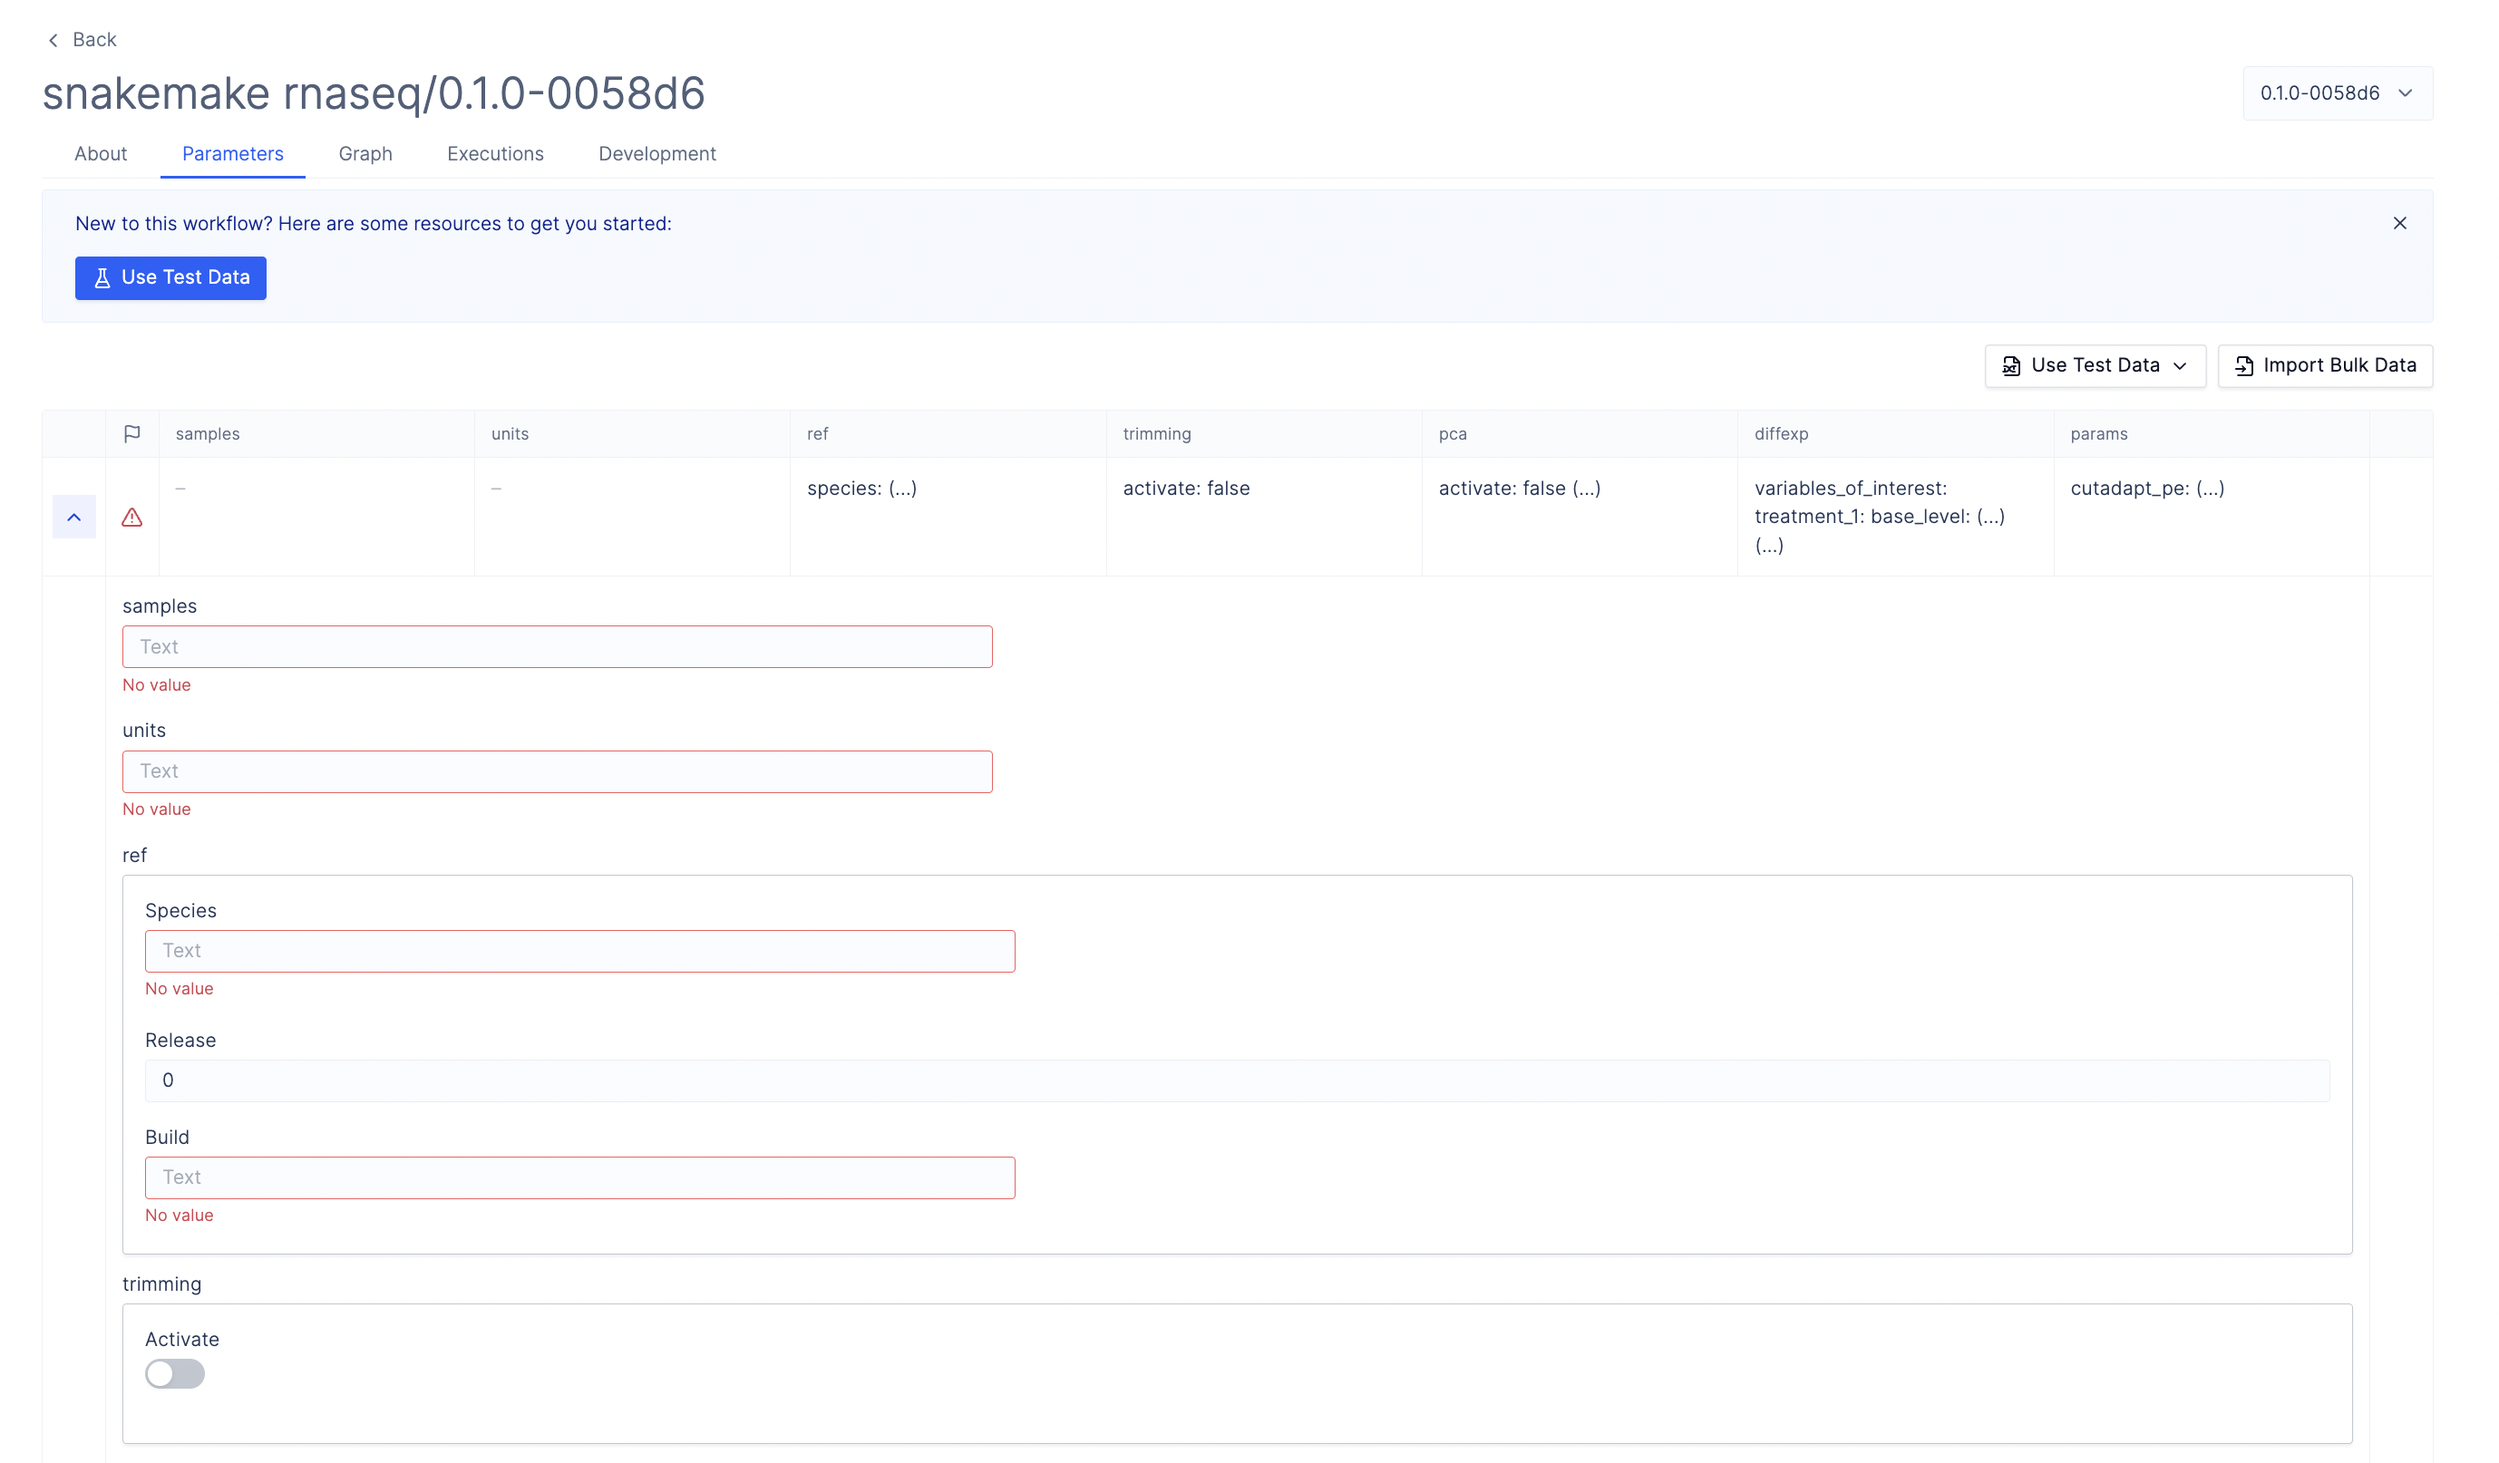
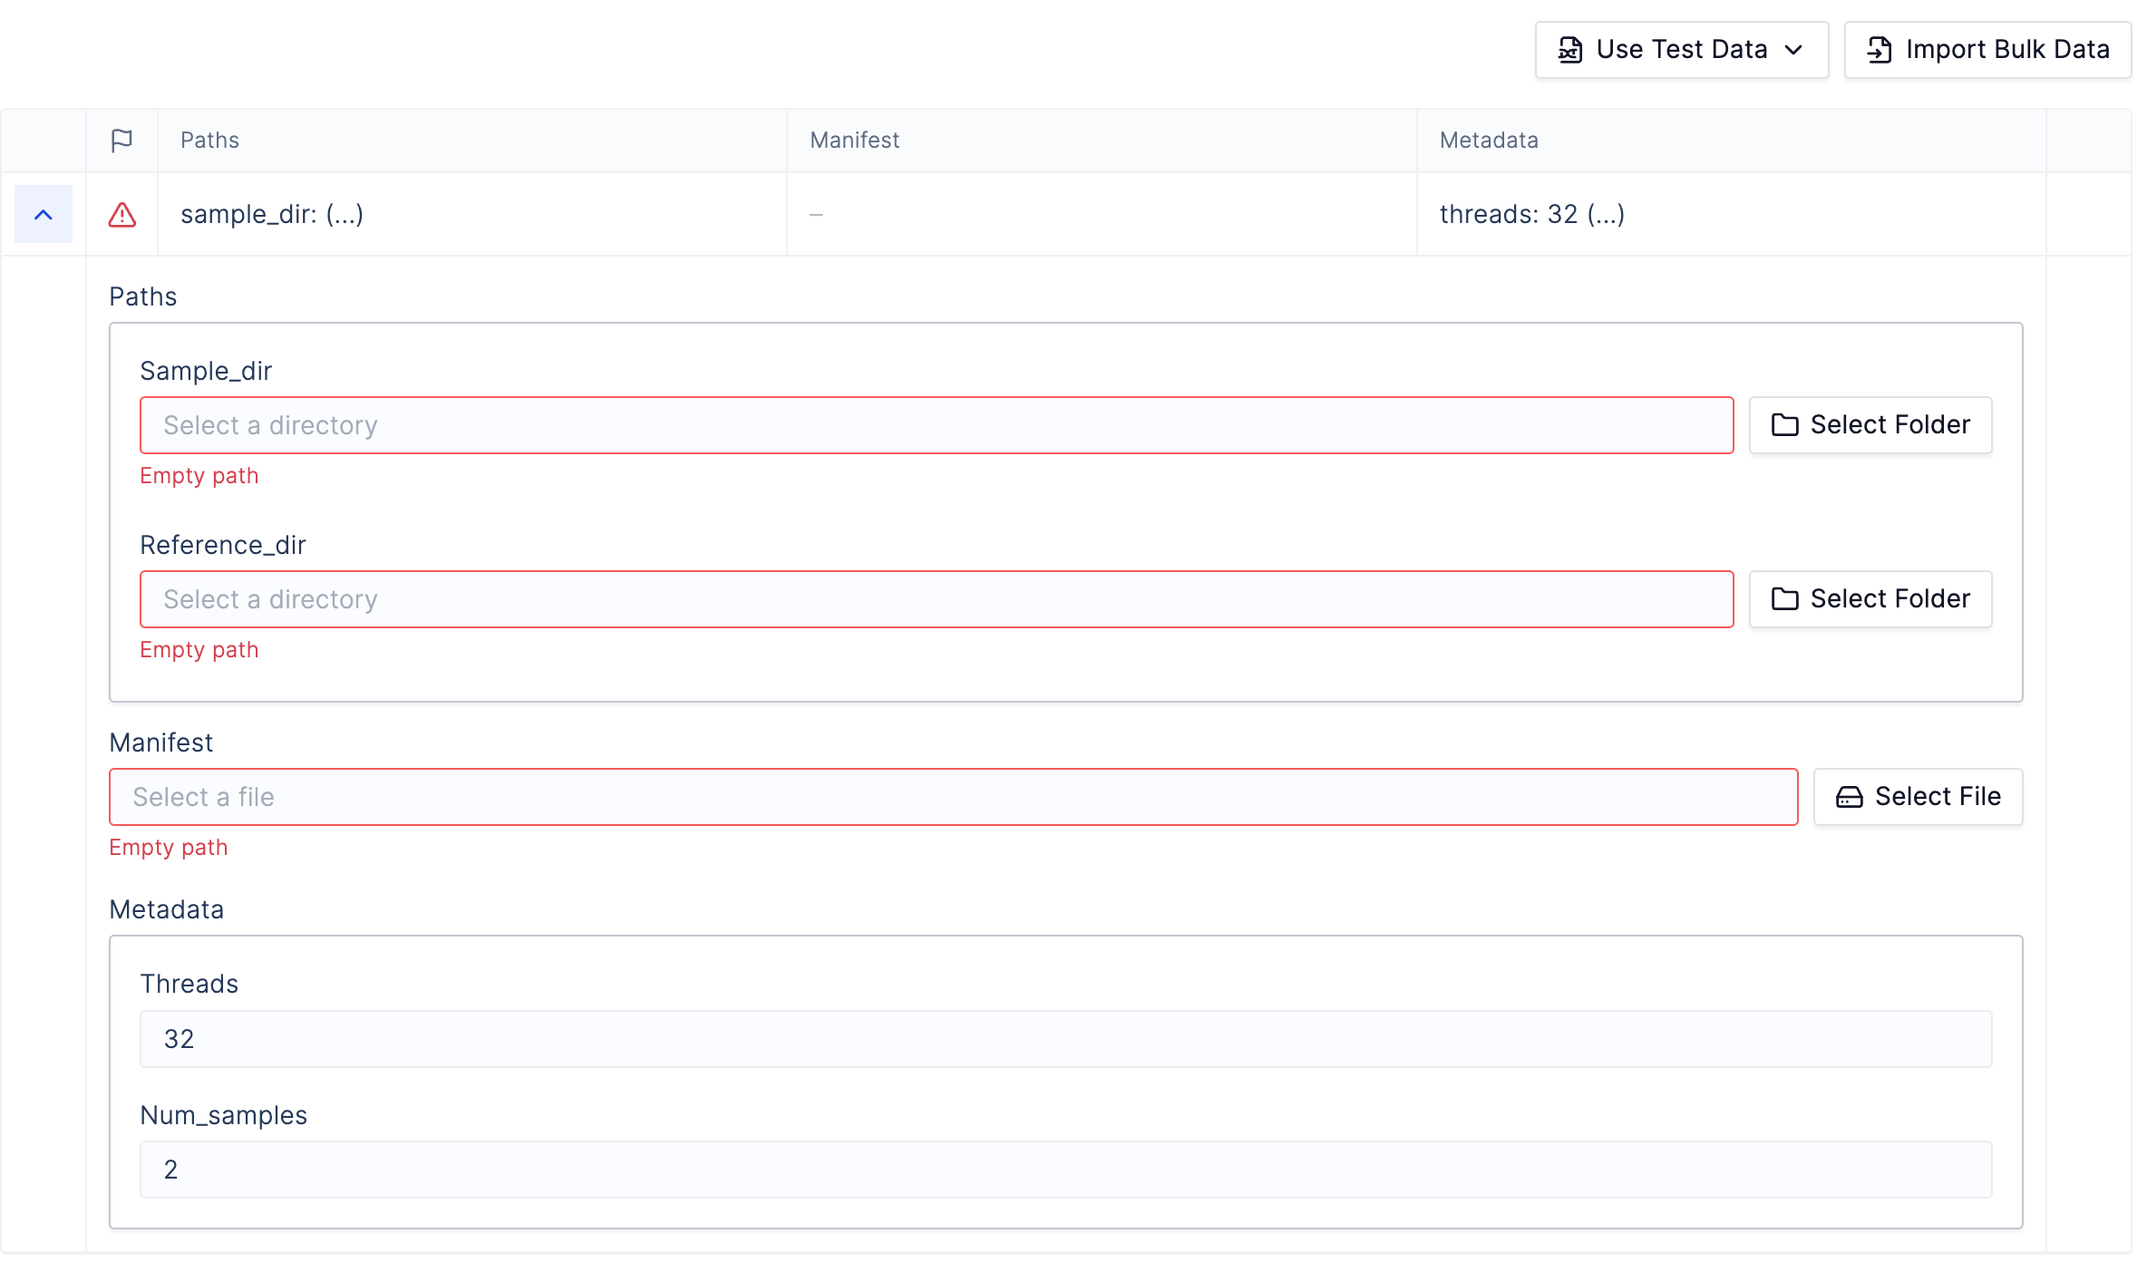
udpate snakemake metadata docs

diff --git a/latch_cli/snakemake/config/utils.py b/latch_cli/snakemake/config/utils.py
@@ -152,7 +152,8 @@ def parse_value(t: Type, v: JSONValue):
 
         sub_type = get_args(t)[0]
         res = [parse_value(sub_type, x) for x in v]
-        return [x[0] for x in res], [x[1] for x in res]
+        val, defaults = [x[0] for x in res], [x[1] for x in res]
+        return val, None if any([x is None for x in defaults]) else defaults
 
     assert isinstance(v, dict), v
     assert is_dataclass(t), t
@@ -161,14 +162,18 @@ def parse_value(t: Type, v: JSONValue):
     defaults = {}
     fs = {identifier_from_str(f.name): f for f in fields(t)}
 
+    ignore_default = False
     for k, x in v.items():
         sanitized = identifier_from_str(k)
         assert sanitized in fs, sanitized
         val, default = parse_value(fs[sanitized].type, x)
         ret[sanitized] = val
+        # flytekit fails if any fields in default object are None
+        if default is None:
+            ignore_default = True
         defaults[sanitized] = default
 
-    return t(**ret), t(**defaults)
+    return t(**ret), t(**defaults) if not ignore_default else None
 
 
 def is_primitive_type(

diff --git a/docs/source/snakemake/metadata.md b/docs/source/snakemake/metadata.md
@@ -1,211 +1,123 @@
 # Metadata
 
-The Snakemake framework was designed to allow developers to both define and execute their workflows. This often means that the workflow parameters are sometimes ill-defined and scattered throughout the project as configuration values, static values in the `Snakefile` or command line flags.
+The Snakemake framework was designed to allow developers to both define and execute their workflows. This often means that the workflow parameters are sometimes ill-defined and scattered throughout the project as configuration values, static values in the `Snakefile`, or command line flags.
 
-To construct a graphical interface from a snakemake workflow, the file parameters need to be explicitly identified and defined so that they can be presented to scientists to be filled out through a web application.
+To construct a graphical interface from a Snakemake workflow, the file parameters need to be explicitly identified and defined so that they can be presented to scientists through a web application.
 
-The `latch_metadata.py` file holds these parameter definitions, along with any styling or cosmetic modifications the developer wishes to make to each parameter.
+The `latch_metadata` folder holds these parameter definitions.
 
-To generate a `latch_metadata.py` file, type:
+To generate Latch metadata from a config file, type:
 
 ```console
 latch generate-metadata <path_to_config.yaml>
 ```
 
-The command automatically parses the existing `config.yaml` file in the Snakemake repository, and creates a Python parameters file.
+The command automatically parses the existing `config.yaml` file in the Snakemake repository and creates a Python parameters file. After running the command, inspect the generated files to verify that the parameter types and file paths are what the workflow expects.
 
-#### Examples
+## Example
 
-Below is an example `config.yaml` file from the [rna-seq-star-deseq2 workflow](https://github.com/snakemake-workflows/rna-seq-star-deseq2) from Snakemake workflow catalog.
+Below is an example `config.yaml` file and corresponding latch metadata.
 
 `config.yaml`
 
 ```yaml
-# path or URL to sample sheet (TSV format, columns: sample, condition, ...)
-samples: config/samples.tsv
-# path or URL to sequencing unit sheet (TSV format, columns: sample, unit, fq1, fq2)
-# Units are technical replicates (e.g. lanes, or resequencing of the same biological
-# sample).
-units: config/units.tsv
+paths:
+  sample_dir: data/samples/
+  reference_dir: reference/
 
-ref:
-  # Ensembl species name
-  species: homo_sapiens
-  # Ensembl release (make sure to take one where snpeff data is available, check 'snpEff databases' output)
-  release: 100
-  # Genome build
-  build: GRCh38
+manifest: manifest.tsv
 
-trimming:
-  # If you activate trimming by setting this to `True`, you will have to
-  # specify the respective cutadapt adapter trimming flag for each unit
-  # in the `units.tsv` file's `adapters` column
-  activate: False
-
-pca:
-  activate: True
-  # Per default, a separate PCA plot is generated for each of the
-  # `variables_of_interest` and the `batch_effects`, coloring according to
-  # that variables groups.
-  # If you want PCA plots for further columns in the samples.tsv sheet, you
-  # can request them under labels as a list, for example:
-  # - relatively_uninteresting_variable_X
-  # - possible_batch_effect_Y
-  labels: ""
-
-diffexp:
-  # variables for whome you are interested in whether they have an effect on
-  # expression levels
-  variables_of_interest:
-    treatment_1:
-      # any fold change will be relative to this factor level
-      base_level: B
-    treatment_2:
-      # any fold change will be relative to this factor level
-      base_level: C
-  # variables whose effect you want to model to separate them from your
-  # variables_of_interest
-  batch_effects:
-    - jointly_handled
-  # contrasts for the deseq2 results method to determine fold changes
-  contrasts:
-    A-vs-B_treatment_1:
-      # must be one of the variables_of_interest, for details see:
-      # https://www.bioconductor.org/packages/devel/bioc/vignettes/DESeq2/inst/doc/DESeq2.html#contrasts
-      variable_of_interest: treatment_1
-      # must be a level present in the variable_of_interest that is not the
-      # base_level specified above
-      level_of_interest: A
-  # The default model includes all interactions among variables_of_interest
-  # and batch_effects added on. For the example above this implicitly is:
-  # model: ~jointly_handled + treatment_1 * treatment_2
-  # For the default model to be used, simply specify an empty `model: ""` below.
-  # If you want to introduce different assumptions into your model, you can
-  # specify a different model to use, for example skipping the interaction:
-  # model: ~jointly_handled + treatment_1 + treatment_2
-  model: ""
-
-params:
-  cutadapt-pe: ""
-  cutadapt-se: ""
-  star: ""
+metadata:
+  threads: 32
+  num_samples: 2
 ```
 
-The Python `latch_metadata.py` generated from the Latch command:
+The `latch_metadata/` folder generated from the `latch generate-metadata` command contains two files:
+
+```
+├── config.yaml
+├── latch_metadata
+│   └── __init__.py
+│   └── parameters.py
+```
 
 ```python
+# latch_metadata/__init__.py
+from latch.types.metadata import SnakemakeMetadata, LatchAuthor
+from latch.types.directory import LatchDir
+
+from .parameters import generated_parameters, file_metadata
+
+SnakemakeMetadata(
+    output_dir=LatchDir("latch:///your_output_directory"),
+    display_name="Your Workflow Name",
+    author=LatchAuthor(
+        name="Your Name",
+    ),
+    parameters=generated_parameters,
+    file_metadata=file_metadata,
+)
+```
+
+```python
+# latch_metadata/parameters.py
 from dataclasses import dataclass
 import typing
 
-from latch.types.metadata import SnakemakeParameter, SnakemakeFileParameter
+from latch.types.metadata import SnakemakeParameter, SnakemakeFileParameter, SnakemakeFileMetadata
 from latch.types.file import LatchFile
 from latch.types.directory import LatchDir
 
 @dataclass
-class ref:
-    species: str
-    release: int
-    build: str
+class paths:
+    sample_dir: LatchDir
+    reference_dir: LatchDir
 
 
 @dataclass
-class trimming:
-    activate: bool
+class metadata:
+    threads: int
+    num_samples: int
 
 
-@dataclass
-class pca:
-    activate: bool
-    labels: str
-
-
-@dataclass
-class treatment_1:
-    base_level: str
-
-
-@dataclass
-class treatment_2:
-    base_level: str
-
-
-@dataclass
-class variables_of_interest:
-    treatment_1: treatment_1
-    treatment_2: treatment_2
-
-
-@dataclass
-class A_vs_B_treatment_1:
-    variable_of_interest: str
-    level_of_interest: str
-
-
-@dataclass
-class contrasts:
-    A_vs_B_treatment_1: A_vs_B_treatment_1
-
-
-@dataclass
-class diffexp:
-    variables_of_interest: variables_of_interest
-    batch_effects: typing.List[str]
-    contrasts: contrasts
-    model: str
-
-
-@dataclass
-class params:
-    cutadapt_pe: str
-    cutadapt_se: str
-    star: str
-
-
-
-
-# Import these into your `__init__.py` file:
-#
-# from .parameters import generated_parameters
-#
 generated_parameters = {
-    'samples': SnakemakeFileParameter(
-        display_name='samples',
+    'paths': SnakemakeParameter(
+        display_name='Paths',
+        type=paths,
+    ),
+    'manifest': SnakemakeParameter(
+        display_name='Manifest',
         type=LatchFile,
+    ),
+    'metadata': SnakemakeParameter(
+        display_name='Metadata',
+        type=metadata,
+        default=metadata(threads=32, num_samples=2),
+    ),
+}
+
+file_metadata = {
+    'paths': {
+        'sample_dir': SnakemakeFileMetadata(
+            path='data/samples/',
+            config=True,
+        ),
+        'reference_dir': SnakemakeFileMetadata(
+            path='reference/',
+            config=True,
+        ),
+    },
+    'manifest': SnakemakeFileMetadata(
+        path='manifest.tsv',
         config=True,
-    ),
-    'units': SnakemakeFileParameter(
-        display_name='units',
-        type=LatchFile,
-        config=True,
-    ),
-    'ref': SnakemakeParameter(
-        display_name='ref',
-        type=ref,
-        default=ref(species='homo_sapiens', release=100, build='GRCh38'),
-    ),
-    'trimming': SnakemakeParameter(
-        display_name='trimming',
-        type=trimming,
-        default=trimming(activate=False),
-    ),
-    'pca': SnakemakeParameter(
-        display_name='pca',
-        type=pca,
-        default=pca(activate=True, labels=''),
-    ),
-    'diffexp': SnakemakeParameter(
-        display_name='diffexp',
-        type=diffexp,
-        default=diffexp(variables_of_interest=variables_of_interest(treatment_1=treatment_1(base_level='B'), treatment_2=treatment_2(base_level='C')), batch_effects=['jointly_handled'], contrasts=contrasts(A_vs_B_treatment_1=A_vs_B_treatment_1(variable_of_interest='treatment_1', level_of_interest='A')), model=''),
-    ),
-    'params': SnakemakeParameter(
-        display_name='params',
-        type=params,
-        default=params(cutadapt_pe='', cutadapt_se='', star=''),
     ),
 }
 ```
 
-Once the workflow is registered to Latch, it will receive an interface like below:
+The `parameters` field contains all input parameters the Latch Console will expose to scientists before executing the workflow.
+
+The `file_metadata` field specifies metadata about the input files as a `SnakemakeFileMetadata` object. Every input parameter of type `LatchFile` or `LatchDir` must have a corresponding `SnakemakeFileMetadata` in the `file_metadata` field.
+
+After registering the above workflow to Latch, you will see an interface like the one below:
 
 ![Snakemake workflow GUI](../assets/snakemake/metadata.png)
